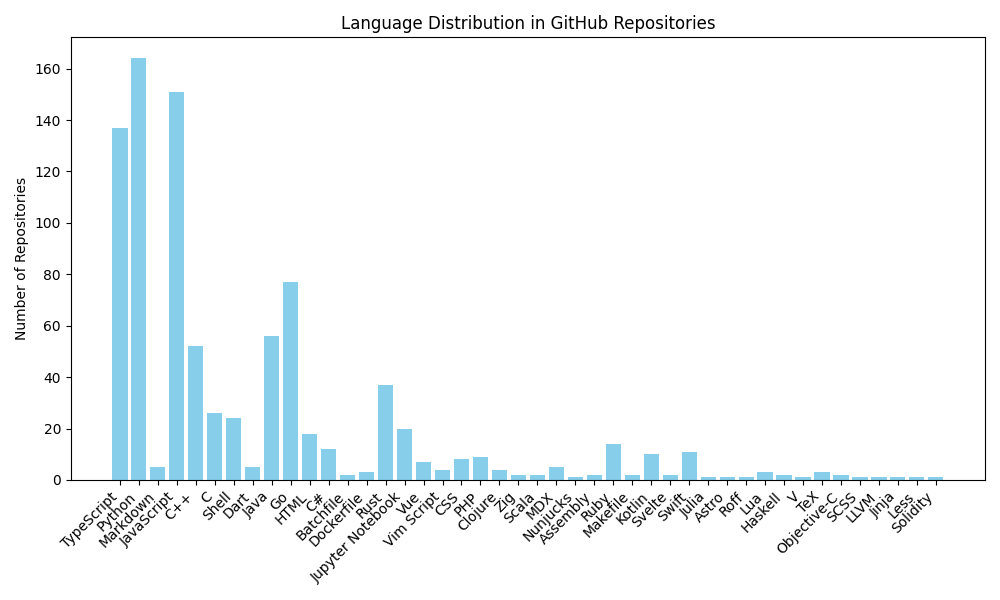
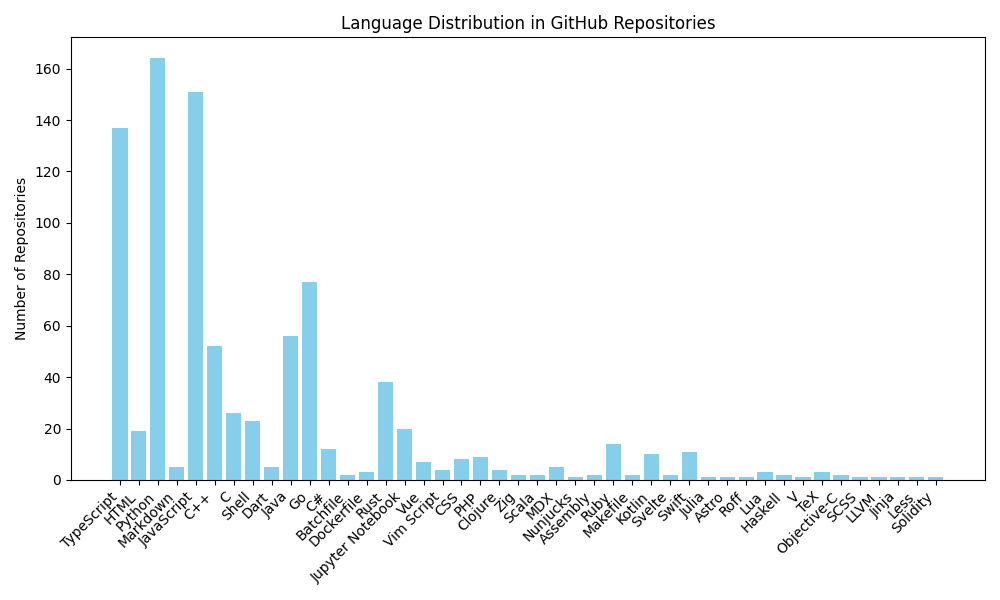
Update language distribution chart

Changed region(s): [[0.124, 0.09, 0.341, 0.78], [0.093, 0.81, 0.31, 0.93]]

diff --git a/README.md b/README.md
@@ -2,10 +2,10 @@
 
 ![Language Distribution Chart](language_distribution_bar_chart.png)
 
-Total repositories processed: 891
+Total repositories processed: 892
 
 Language distribution:
-TypeScript: 137, Python: 164, Markdown: 5, JavaScript: 151, C++: 52, C: 26, Shell: 24, Dart: 5, Java: 56, Go: 77, HTML: 18, C#: 12, Batchfile: 2, Dockerfile: 3, Rust: 37, Jupyter Notebook: 20, Vue: 7, Vim Script: 4, CSS: 8, PHP: 9, Clojure: 4, Zig: 2, Scala: 2, MDX: 5, Nunjucks: 1, Assembly: 2, Ruby: 14, Makefile: 2, Kotlin: 10, Svelte: 2, Swift: 11, Julia: 1, Astro: 1, Roff: 1, Lua: 3, Haskell: 2, V: 1, TeX: 3, Objective-C: 2, SCSS: 1, LLVM: 1, Jinja: 1, Less: 1, Solidity: 1
+TypeScript: 137, HTML: 19, Python: 164, Markdown: 5, JavaScript: 151, C++: 52, C: 26, Shell: 23, Dart: 5, Java: 56, Go: 77, C#: 12, Batchfile: 2, Dockerfile: 3, Rust: 38, Jupyter Notebook: 20, Vue: 7, Vim Script: 4, CSS: 8, PHP: 9, Clojure: 4, Zig: 2, Scala: 2, MDX: 5, Nunjucks: 1, Assembly: 2, Ruby: 14, Makefile: 2, Kotlin: 10, Svelte: 2, Swift: 11, Julia: 1, Astro: 1, Roff: 1, Lua: 3, Haskell: 2, V: 1, TeX: 3, Objective-C: 2, SCSS: 1, LLVM: 1, Jinja: 1, Less: 1, Solidity: 1
 
 
-_Last updated: 2024-11-20 01:53:44_
+_Last updated: 2024-11-21 01:52:23_
